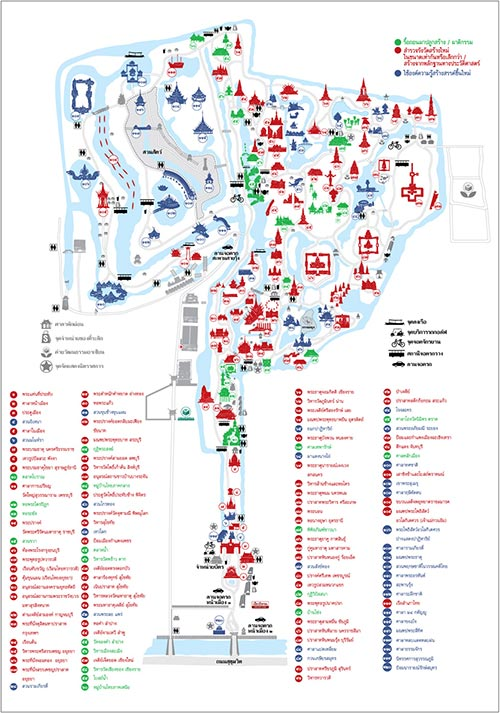
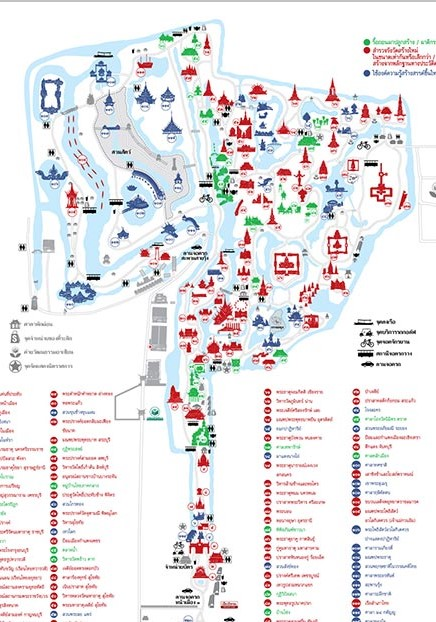
edit ancient page

diff --git a/Content/ancient/ancient.html b/Content/ancient/ancient.html
@@ -19,10 +19,10 @@
         <button class="w3-bar-item w3-button w3-large w3-sand text-center" onclick="myClose()">Close &times;</button>
         <a href="../../index.html" class="w3-bar-item w3-button w3-hover-white w3-xlarge w3-text-orange"><i class="fa fa-home"> Home</i></a>
         <a href="#" class="w3-bar-item w3-button w3-hover-white w3-xlarge w3-text-orange"><i class="fa fa-male"> About Us</i></a>
-        <div class="w3-dropdown-hover">
-          <button class="w3-button w3-text-orange w3-xlarge">สถานที่ท่องเที่ยว
+        <div class="w3-dropdown-hover w3-bar-block">
+          <a class="w3-button w3-text-orange w3-xlarge">สถานที่ท่องเที่ยว
             <i class="fa fa-caret-down"></i>
-          </button>
+          </a>
           <div class="w3-dropdown-content w3-bar-block w3-hover-white w3-large w3-margin-left">
             <a href="../พิพิธภัณฑ์ช้างเอราวัณ/era.html" class="w3-bar-item w3-button w3-hover-black w3-large">พิพิธภัณฑ์ช้างเอราวัณ
 </a>
@@ -32,7 +32,7 @@
           </div>
         </div>
     </div>
-    <button id="openNav" style="visibility: visible;" class="w3-margin-top w3-button w3-white w3-xlarge" onclick="myOpen()">☰</button>
+    <button id="openNav" style="visibility: visible;" class="w3-margin-top w3-button w3-black w3-xlarge" onclick="myOpen()">☰</button>
     <!-- Page Content -->
     <div class="w3-overlay w3-animate-opacity" onclick="myClose()" style="cursor:pointer" id="myOverlay"></div>
     <div class="w3-display-container w3-margin-bottom w3-grayscale-min"><img id="cover-ancient" class="img-thumbnail"
@@ -40,28 +40,20 @@
         <div align="center" class="header w3-display-middle"><b>เมืองโบราณ</b></div>
     </div>
     <div id="container">
-        <p>&emsp;เมืองโบราณ สมุทรปราการ อีกหนึ่งสถานที่ท่องเที่ยว อันทรงคุณค่า ซึ่งอยู่ไม่ไกลกรุงเทพฯ มีสิ่งที่น่าสนใจมากมาย บรรยากาศร่มรื่นและผ่อนคลาย เที่ยวกันได้ทั้งครอบครัว สามารถเที่ยวกันได้ง่าย ๆ ในวันหยุดสุดสัปดาห์</p><br>
-        <div class="myPic">
-            <img src="y9.jpg"><br>
-        <p>&emsp;เมืองโบราณ สมุทรปราการ ตั้งอยู่ที่ 296/1 หมู่ 7 ถนนสุขุมวิท ตำบลบางปูใหม่ อำเภอเมืองสมุทรปราการ ก่อตั้งโดย คุณเล็ก วิริยะพันธุ์ เริ่มการก่อสร้างในปี พ.ศ. 2506 มีพื้นที่ทั้งหมดราว ๆ 800 ไร่ ซึ่งหากมองจากแผนที่จะเห็นว่าพื้นที่ทั้งหมดของเมืองโบราณมีรูปร่างคล้ายกับขวาน ซึ่งคล้ายกับแผนที่ประเทศไทยนั่นเอง</p><br>
-        <div class="myPic">
-            <img src="mh2.jpg" alt="map">
-        </div><br>
-        <p>&emsp;ภายในเมืองโบราณ สมุทรปราการ ได้มีการจำลองงานสถาปัตยกรรมอันสวยงามและทรงคุณค่าของไทยไว้มากมาย ซึ่งมีทั้งสถาปัตยกรรมที่รื้อถอนจากของจริงมาปลูกสร้าง จำลองจากขนาดจริงหรือเล็กกว่ามาสร้าง และใช้องค์ความรู้มาสร้างสรรค์ขึ้นใหม่</p><br>
-        <div class="myPic">
-            <img src="y1.jpg"><br><br>
-            <img src="y7.jpg">
-        </div><br>
+        <img id="pic1" src="y9.jpg"><br>
+        <img id="pic2" src="mh2.jpg" alt="map"><br><br>
+        <p>&emsp;เมืองโบราณ สมุทรปราการ อีกหนึ่งสถานที่ท่องเที่ยว อันทรงคุณค่า ซึ่งอยู่ไม่ไกลกรุงเทพฯ มีสิ่งที่น่าสนใจมากมาย บรรยากาศร่มรื่นและผ่อนคลาย เที่ยวกันได้ทั้งครอบครัว สามารถเที่ยวกันได้ง่าย ๆ ในวันหยุดสุดสัปดาห์<br><br>&emsp;เมืองโบราณ สมุทรปราการ ตั้งอยู่ที่ 296/1 หมู่ 7 ถนนสุขุมวิท ตำบลบางปูใหม่ อำเภอเมืองสมุทรปราการ ก่อตั้งโดย คุณเล็ก วิริยะพันธุ์ เริ่มการก่อสร้างในปี พ.ศ. 2506 มีพื้นที่ทั้งหมดราว ๆ 800 ไร่ ซึ่งหากมองจากแผนที่จะเห็นว่าพื้นที่ทั้งหมดของเมืองโบราณมีรูปร่างคล้ายกับขวาน ซึ่งคล้ายกับแผนที่ประเทศไทยนั่นเอง</p>
+        <p>&emsp;ภายในเมืองโบราณ สมุทรปราการ ได้มีการจำลองงานสถาปัตยกรรมอันสวยงามและทรงคุณค่าของไทยไว้มากมาย ซึ่งมีทั้งสถาปัตยกรรมที่รื้อถอนจากของจริงมาปลูกสร้าง จำลองจากขนาดจริงหรือเล็กกว่ามาสร้าง และใช้องค์ความรู้มาสร้างสรรค์ขึ้นใหม่</p><br><br><br><br><br><br><br><br><br>
+        <div class="myPic1">
+            <img id="pic3" src="y1.jpg">
+            <img id="pic4" src="y7.jpg">
         <p>&emsp;นักท่องเที่ยวจะได้ตื่นตาตื่นใจไปกับสถาปัตยกรรมที่สวยงามมากมาย ซึ่งมีมากกว่า 100 รูปแบบ และยังมีให้ชมครบทั้ง 4 ภาคจากทั่วไทย สิ่งที่น่าสนใจ เช่น พระที่นั่งสรรเพชญปราสาทจำลอง, ศาลาพระอรหันต์, เขาพระสุเมรุ, วิหารวัดภูมินทร์ น่าน, เรือนทับขวัญ, คุ้มขุนแผน, สวนรามเกียรติ์, วัดจองคำ ลำปาง, วิหารสุโขทัย, พระมหาธาตุเจดีย์ สุโขทัย,  พระธาติจอมกิตติ จังหวัดเชียงราย, ปราสาทหินพนมรุ้ง, ปราสาทหินพิมาย, ศาลาโถงวัดนิมิตร ตราด, เรือสำเภาไทย ฯลฯ เรียกได้ว่ามาเที่ยวที่เดียว ก็เหมือนได้เที่ยวไปทั่วประเทศไทยเลยทีเดียว</p><br>
-        <div class="myPic">
-            <img src="y11.jpg">
-        </div><br>
-        <p>&emsp;เมืองโบราณ สมุทรปราการ ได้มีการจัดสรรพื้นที่อย่างดี ปรับภูมิทัศน์โดยรอบให้สวยงาม รายล้อมไปด้วยสระน้ำและสวนสวยสีเขียวขจีสุดร่มรื่น มีถนนลาดยางอย่างดีให้นักท่องเที่ยวสามารถขับรถยนต์เที่ยวเองได้ หรือใครจะขี่จักรยานชิล ๆ เที่ยวชมที่นี่ก็ได้เช่นกัน ส่วนถ้าใครอยากได้ความรู้ไปด้วยก็จะมีรถรางของเมืองโบราณไว้บริการ หรือถ้าอยากส่วนตัวหน่อยก็มีรถกอล์ฟไว้ให้เช่ากันด้วย</p><br>
-        <div class="myPic">
-            <img src="y13.jpg">
-        </div><br>
-        <p>&emsp;สำหรับใครที่ติดตามละครเรื่องบุพเพสันนิวาส จะรู้เลยว่า "เมืองโบราณ" ถูกใช้เป็นหนึ่งในสถานที่ถ่ายทำสำคัญในละคร โดยใช้ใช้ตลาดน้ำของเมืองโบราณเป็นสถานที่ถ่ายทำ ฉากที่คุณพี่หมื่นพาแม่หญิงการะเกดมาชมตลาดในสมัยอยุธยานั่นเอง ใครอยากล่องเรือเที่ยวเหมือนแม่การะเกด ก็มาล่องเรือได้ที่โซนตลาดน้ำ จะมีบริการพานั่งเรือชมตลาดน้ำ ชมบ้านเรือนสองฟากฝั่งแม่น้ำ เหมือนกับในละครเลยครับ</p><br>
-        <div class="myPic">
+        </div>
+        <div class="myPic2">
+            <img src="y11.jpg"><br>
+            <p>&emsp;เมืองโบราณ สมุทรปราการ ได้มีการจัดสรรพื้นที่อย่างดี ปรับภูมิทัศน์โดยรอบให้สวยงาม รายล้อมไปด้วยสระน้ำและสวนสวยสีเขียวขจีสุดร่มรื่น มีถนนลาดยางอย่างดีให้นักท่องเที่ยวสามารถขับรถยนต์เที่ยวเองได้ หรือใครจะขี่จักรยานชิล ๆ เที่ยวชมที่นี่ก็ได้เช่นกัน ส่วนถ้าใครอยากได้ความรู้ไปด้วยก็จะมีรถรางของเมืองโบราณไว้บริการ หรือถ้าอยากส่วนตัวหน่อยก็มีรถกอล์ฟไว้ให้เช่ากันด้วย</p><br>
+            <img src="y13.jpg"><br>
+            <p>&emsp;สำหรับใครที่ติดตามละครเรื่องบุพเพสันนิวาส จะรู้เลยว่า "เมืองโบราณ" ถูกใช้เป็นหนึ่งในสถานที่ถ่ายทำสำคัญในละคร โดยใช้ใช้ตลาดน้ำของเมืองโบราณเป็นสถานที่ถ่ายทำ ฉากที่คุณพี่หมื่นพาแม่หญิงการะเกดมาชมตลาดในสมัยอยุธยานั่นเอง ใครอยากล่องเรือเที่ยวเหมือนแม่การะเกด ก็มาล่องเรือได้ที่โซนตลาดน้ำ จะมีบริการพานั่งเรือชมตลาดน้ำ ชมบ้านเรือนสองฟากฝั่งแม่น้ำ เหมือนกับในละครเลยครับ</p><br>
             <img src="bup_1.jpg">
         </div>
     </div>

diff --git a/Res/style.css b/Res/style.css
@@ -44,7 +44,7 @@
     margin: auto;
     display: block;
     opacity: 0.8;
-    filter:blur(2px);
+    filter:blur(2.9px);
 }
 
 #cover1 {
@@ -166,19 +166,40 @@ div.desc {
 }
 .header {
     font-family: 'SanamDeklenchaya';
-    font-size: 55px;
+    font-size: 75px;
     color: white;
     text-shadow: 5px 3px 12px rgba(0,0,0,0.15);
 }
 
-.myPic img {
+#pic1 {
+    max-width: 60%;
+    height: auto;
+    margin: 15px auto 20px auto;
+    display: block;
+    border-radius: 20px;
+}
+
+#pic2 {
     max-width: 55%;
     height: auto;
     display: block;
-    margin-left: auto;
-    margin-right: auto;
-    margin-bottom: 10px;
+    margin-left: 15px;
     border-radius: 20px;
+    float: right;
+}
+.myPic1 img{
+     max-width: 45%;
+     height: auto;
+     display: inline-block;
+     margin: 15px;
+     border-radius: 20px;
+}
+.myPic2 img{
+     max-width: 58%;
+     height: auto;
+     display: block;
+     margin: auto;
+     border-radius: 20px;
 }
 
 /*config FirstPage*/
